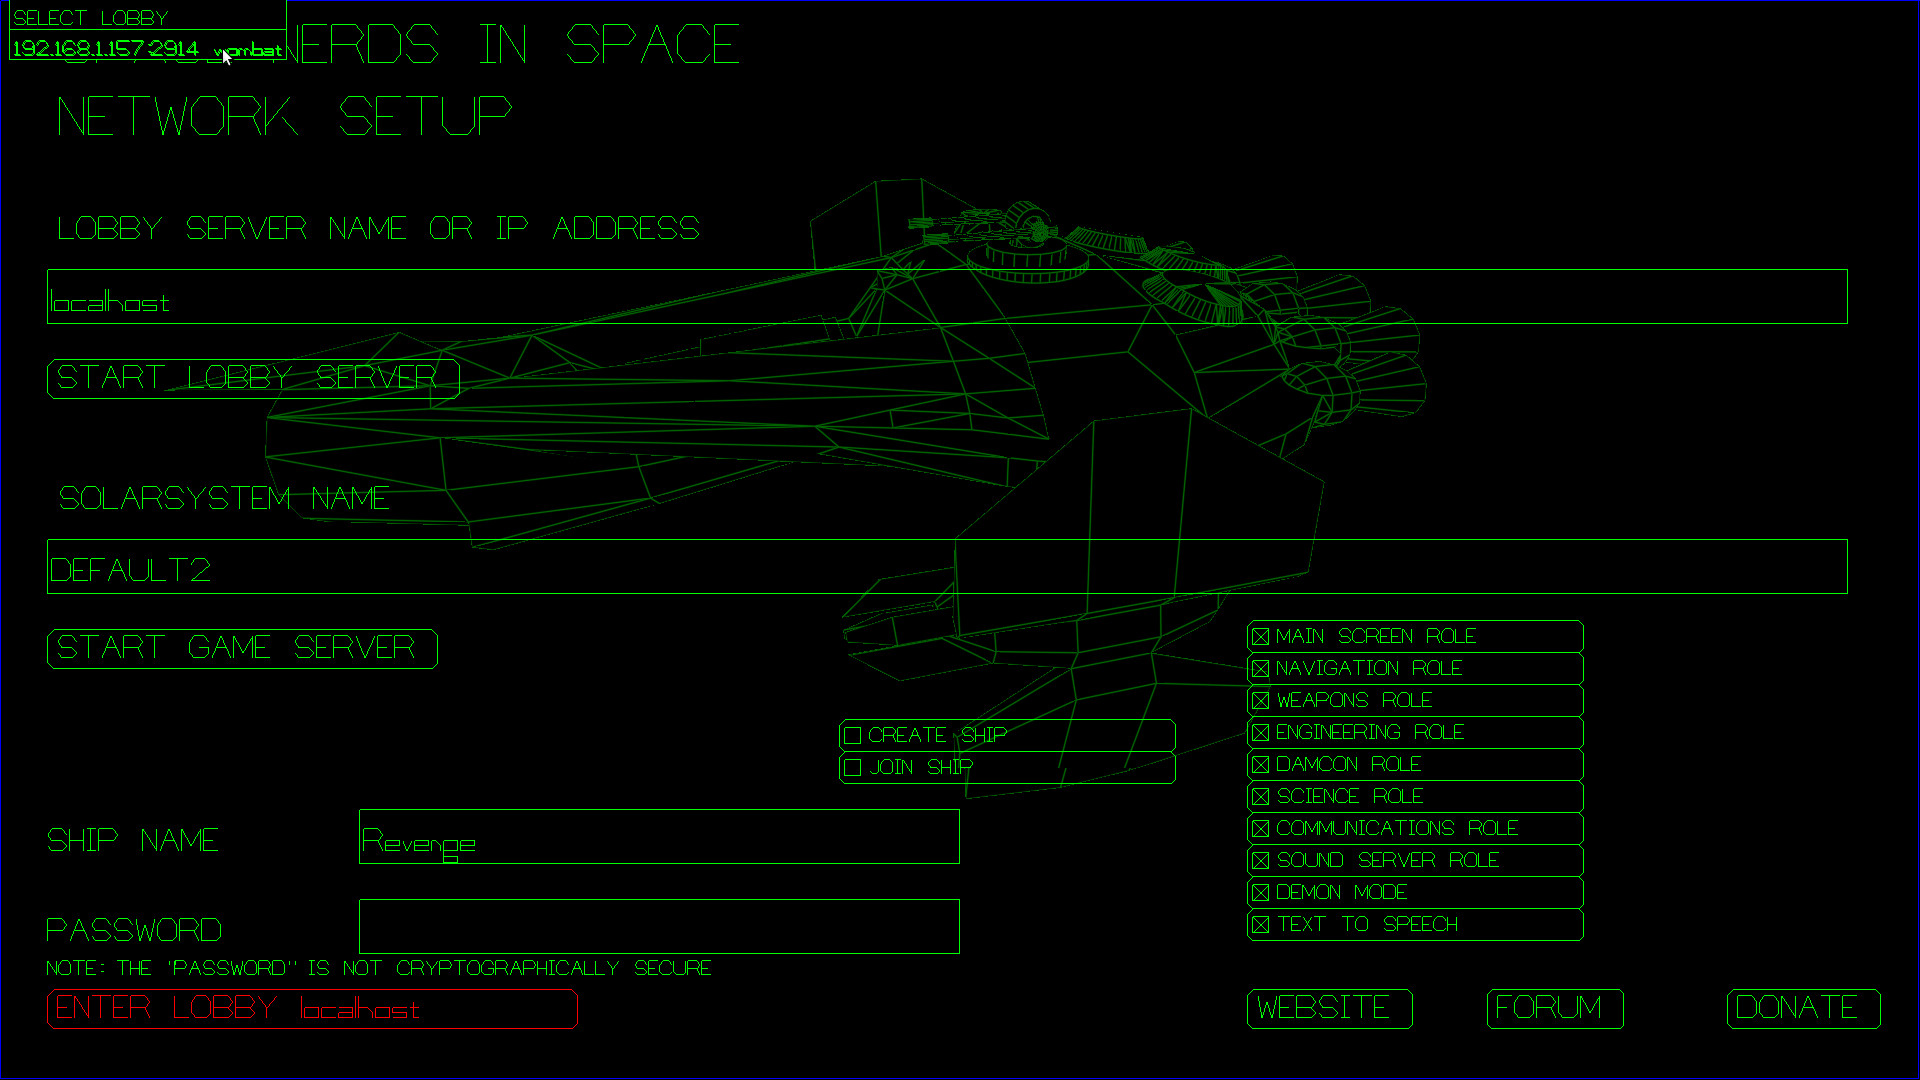
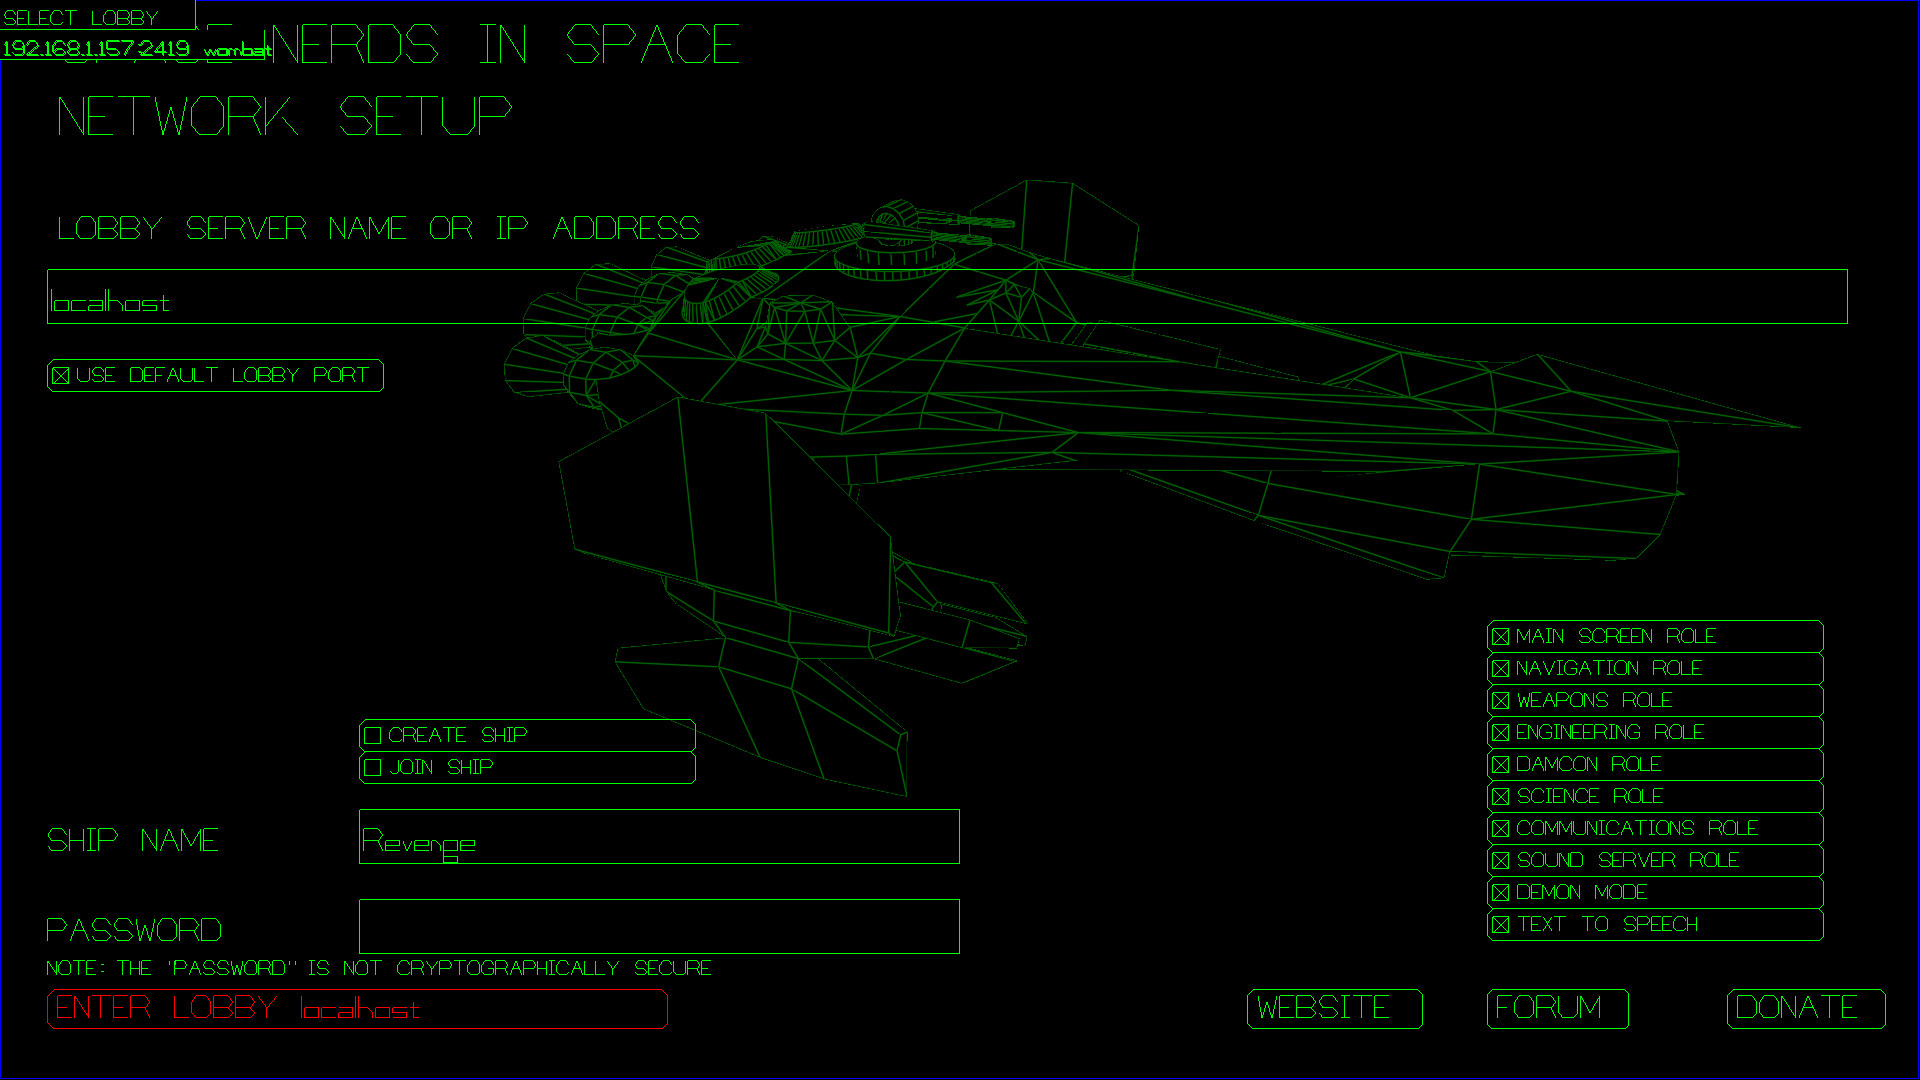
Update network setup screen, mention voice chat, internet setup

diff --git a/index.html b/index.html
@@ -228,6 +228,19 @@ so may be different on RPM based systems.
 
 <p class="tab">
 <div class="boxed">
+<p class="tab">NOTE: Later, the Makefile will download the Opus library source (
+https://archive.mozilla.org/pub/opus/opus-1.3.1.tar.gz).  This library is used
+for the voice chat feature. If you intend to build on a machine which does not
+have internet access, or for whatever reason do not want the makefile to download
+this library at build time, you can download it yourself beforehand. Or you can
+modify the Makefile and change "WITHVOICECHAT=yes" at the top of the file to
+"WITHVOICECHAT=no" and it will not download this library (and you won't have the
+voice chat feature.)
+</p>
+</div>
+
+<p class="tab">
+<div class="boxed">
 <p class="tab">NOTE: problems building on SuSE Leap 15.1. The following problems/solutions have
 been conveyed to me regarding SuSE Leap 15.1. This information is not very complete or
 accurate, but it is the best I have for now.  Please feel free to send me
@@ -248,6 +261,8 @@ be problematic.
 </p>
 </div>
 </p>
+
+
 
 <h2>Step 2: Download the Source Code</h2>
 
@@ -286,6 +301,7 @@ cd space-nerds-in-space-master
 directory for the game ("space-nerds-in-space" if you
 got the source using git, or "space-nerds-in-space-master" if you
 downloaded the zip file), and type (as a non-root user):
+
 <pre><blockquote>
 make
 </blockquote></pre>
@@ -1366,6 +1382,11 @@ console (e.g. if you mean for this to be the NAVIGATION station, press F2).
 </ul>
 </ol>
 <p>That's it for the bridge station setup.  Repeat for each station.
+<p>To use the voice chat feature, you can press and hold F12 and whatever
+your microphone records will be transmitted to the other terminals on your
+ship.  If you press and hold ctrl-F12, then whatever your microphone records
+will be transmitted to all other terminals on all ships in the current
+snis_server instance.
 <hr>
 <h1><a name="updateinstructions">Updating Space Nerds In Space</a></h1>
 <p>Suppose you have set up Space Nerds In Space previously but development has
@@ -1461,6 +1482,7 @@ will then feed them into the fifo.
 <li><a href="#openglversion">OpenGL versions</a>
 <li><a href="#crashing">The game is crashing!</a>
 <li><a href="#networkproblems">network problems</a>
+<li><a href="#internetplay">Playing over the internet</a>
 </ol>
 <hr>
 <ol>
@@ -2245,6 +2267,23 @@ scenarios as such scenarios typically do not use the procedural generation code 
 when populating the universe but instead typically use their own custom code or a pre-set
 configuration when populating the initial conditions.
 </ul>
+<p>
+<li><b><a name="internetplay">Playing over the internet</a></b>
+<p>Space Nerds in Space was designed to be played on a LAN, not over the internet.
+I do not recommend playing over the internet.  Be aware that the protocol is not
+encrypted in any way and is not secure.
+<p>Some people insist on attempting it anyway.
+<p>You can control the port that the lobby server runs on via the environment
+variable via the "Options" menu item of the snis_launcher script or via the
+environment variable SSGL_PORT.  For snis_client, the lobby port number may be
+entered via the "Options" menu of the snis_launcher script, via the SSGL_PORT
+environment variable, or via the UI on the network setup screen.
+<p>You can control the range of ports which snis_server will use via the "Options"
+menu of the snis_launcher script or via the environment variable
+SNIS_SERVER_PORT_RANGE, e.g. "export SNIS_SERVER_PORT_RANGE=32000:32100". You
+might want to do this to limit what ports you need to open up on your firewall.
+<p>See <a href="https://github.com/smcameron/space-nerds-in-space/blob/master/doc/running-in-the-cloud.txt">doc/running-in-the-cloud.txt</a>
+for more information.
 <p>
 </ol>
 <br>
